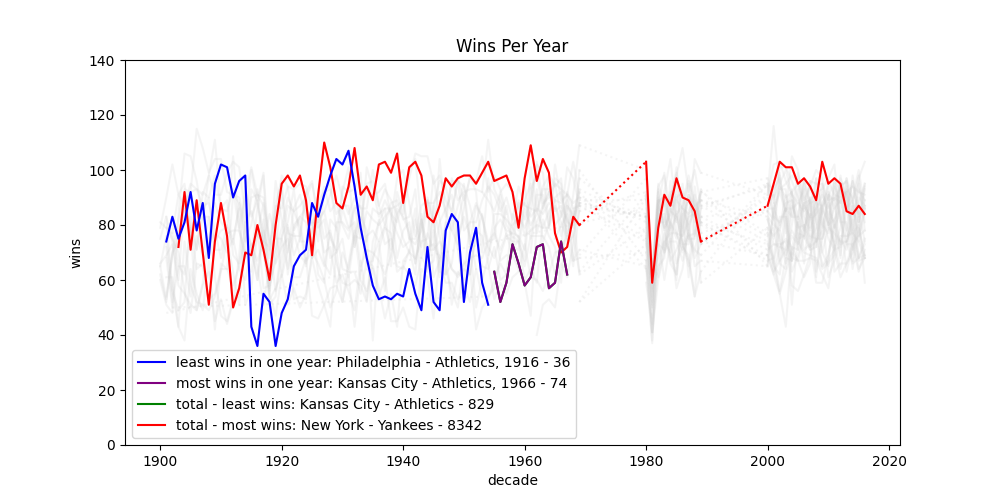
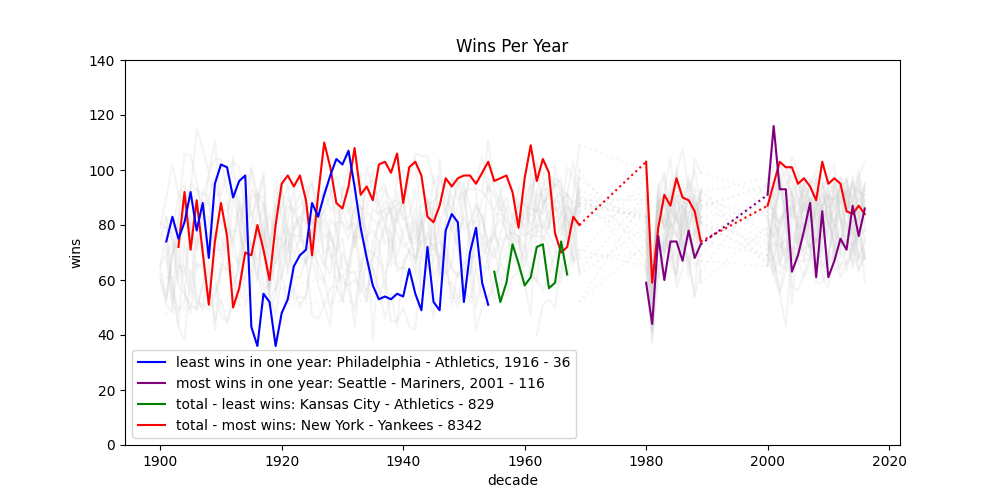
first improvements with comments from prof

diff --git a/final-project/src/plots/score/score_plot.py b/final-project/src/plots/score/score_plot.py
@@ -101,7 +101,7 @@ def winning_teams(df):
     worst_team_yearly = ''
     worst_year = 0
 
-    best_score_yearly = 100000
+    best_score_yearly = 0
     best_team_yearly = ''
     best_year = 0
 
@@ -116,7 +116,7 @@ def winning_teams(df):
 
         curr_best_year = max(win_count_per_year, key=win_count_per_year.get)
         curr_best_score = win_count_per_year[curr_best_year]
-        if curr_best_score < best_score_yearly:
+        if curr_best_score > best_score_yearly:
             best_team_yearly = curr_team
             best_score_yearly = curr_best_score
             best_year = curr_best_year

diff --git a/final-project/src/event_plot.py b/final-project/src/event_plot.py
@@ -64,5 +64,5 @@ def games_per_year_per_team(df):
     draw_hint(ax, [1981, games_per_year_avg[1981]], 'strike')
 
     plt.title('Average Games Played Per Year')
-    plt.xlabel('games played')
-    plt.ylabel('decade')
+    plt.ylabel('games played')
+    plt.xlabel('decade')
